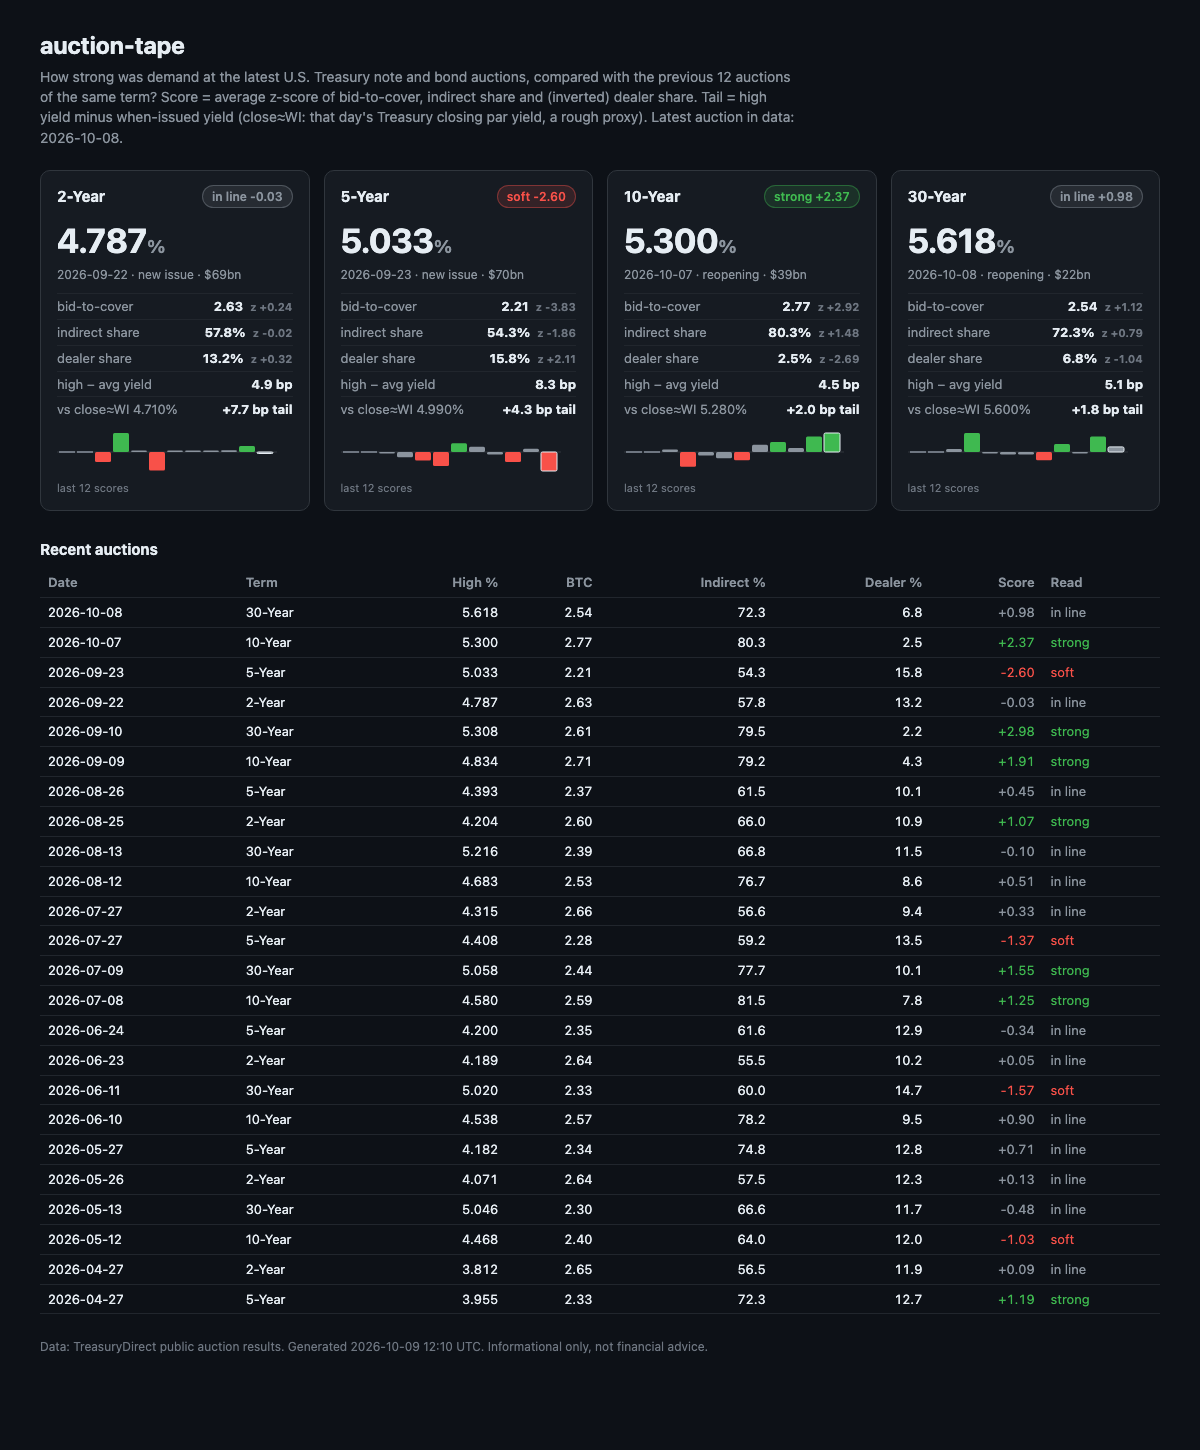
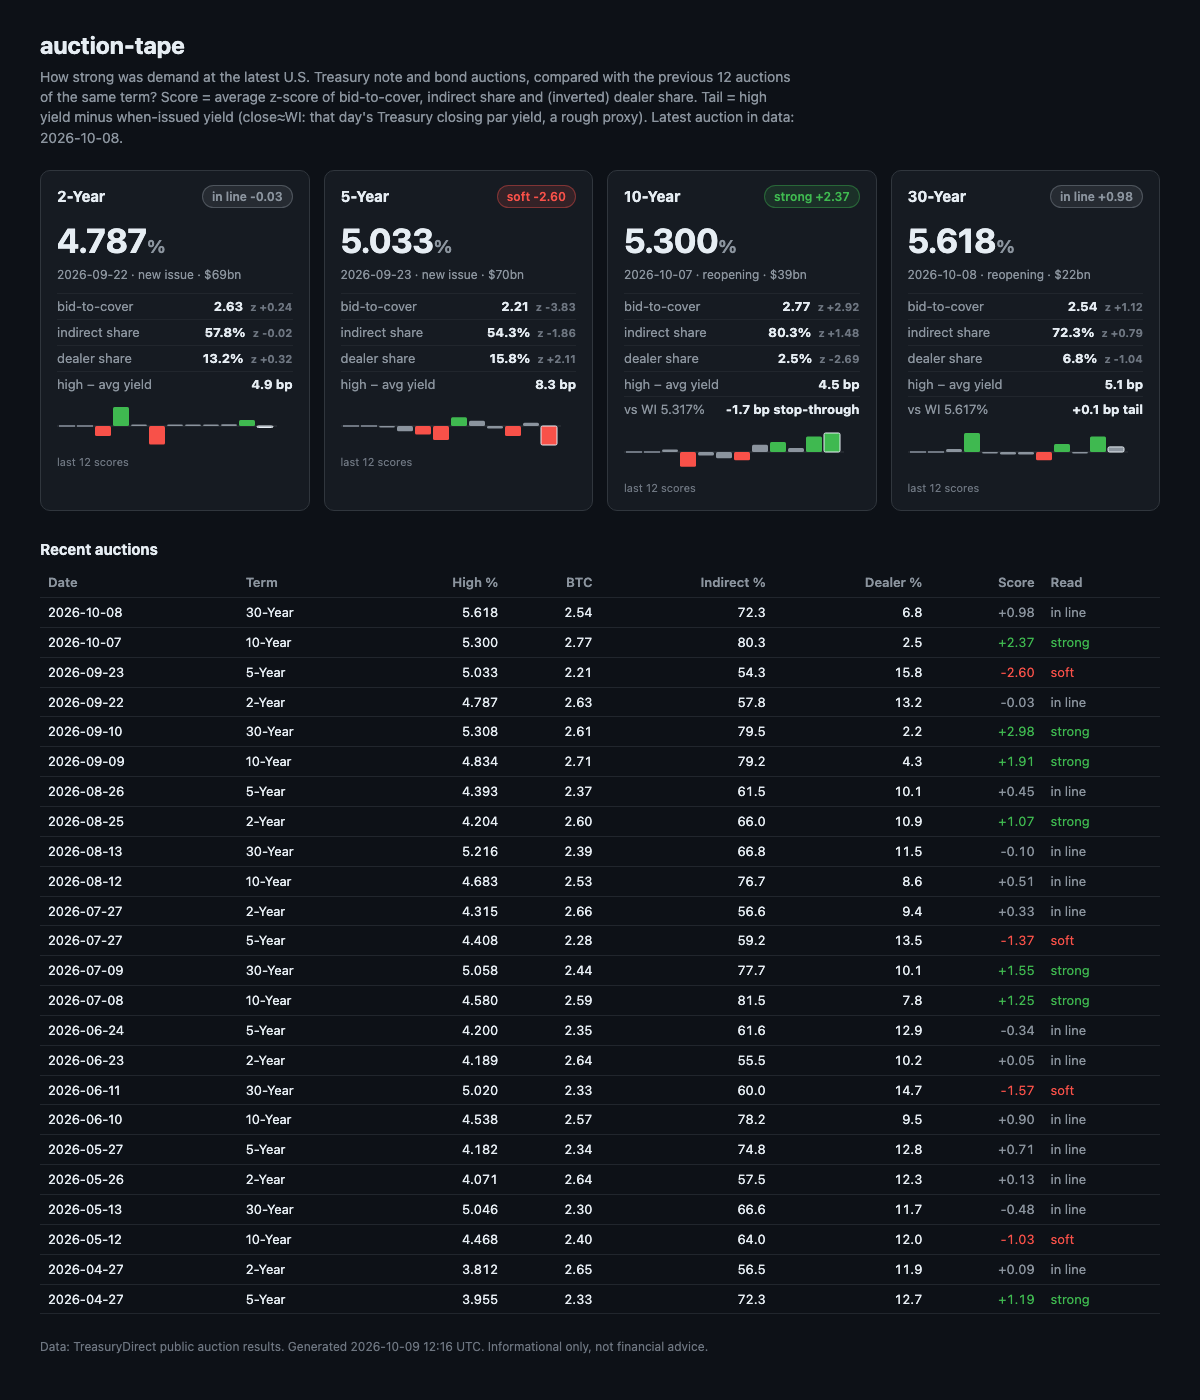
Use published WI yields in sample and screenshot; document close-proxy caveat

diff --git a/README.md b/README.md
@@ -22,7 +22,7 @@ shares of competitive awards. Then it computes:
 | Metric | Meaning |
 | --- | --- |
 | **Demand score** | Average of three z-scores against the previous `--window` (default 12) same-tenor auctions: bid-to-cover (higher = stronger), indirect share (higher = stronger; includes foreign official buyers) and dealer share (inverted, since dealers are the buyer of last resort). An auction is never part of its own baseline. ≥ +1 = **strong**, ≤ −1 = **soft**, otherwise **in line**. |
-| **Tail / stop-through** | High yield minus the when-issued (WI) yield, in bp. Positive = tail (weak), negative = stop-through (strong). Pass the WI yield with `--wi 10Y=4.512`, or use `--approx-wi` to approximate it with that day's Treasury closing par yield. The close comes a few hours after the 1pm ET auction, so treat it as a rough proxy. |
+| **Tail / stop-through** | High yield minus the when-issued (WI) yield, in bp. Positive = tail (weak), negative = stop-through (strong). Pass the WI yield with `--wi 10Y=4.512`, or use `--approx-wi` to approximate it with that day's Treasury closing par yield. The close comes a few hours after the 1pm ET auction, so treat it as a rough proxy (see the note below). |
 | **High − average yield** | How spread out the accepted bids were, in bp. |
 
 It's a transparent summary statistic, not a forecast and not financial advice.
@@ -53,16 +53,24 @@ Options: `--days` (history to fetch, default 420), `--window` (baseline size, de
 
 ## Sample output
 
-Live run on 2026-10-09 with `auction-tape --approx-wi` (tail measured against the day's close):
+Live run on 2026-10-09, with the published when-issued yields at the bid deadline for the latest 10Y and 30Y
+(`auction-tape --wi 10Y=5.317 --wi 30Y=5.617`):
 
 ```text
 term     auction      high%   btc  indir%  dealer%  score  read      tail bp
 ----------------------------------------------------------------------------
-2-Year   2026-09-22   4.787  2.63    57.8     13.2  -0.03  in line      +7.7
-5-Year   2026-09-23   5.033  2.21    54.3     15.8  -2.60  soft         +4.3
-10-Year  2026-10-07   5.300  2.77    80.3      2.5  +2.37  strong       +2.0
-30-Year  2026-10-08   5.618  2.54    72.3      6.8  +0.98  in line      +1.8
+2-Year   2026-09-22   4.787  2.63    57.8     13.2  -0.03  in line         –
+5-Year   2026-09-23   5.033  2.21    54.3     15.8  -2.60  soft            –
+10-Year  2026-10-07   5.300  2.77    80.3      2.5  +2.37  strong       -1.7
+30-Year  2026-10-08   5.618  2.54    72.3      6.8  +0.98  in line      +0.1
 ```
+
+The Oct 7 10Y reopening cleared at 5.300%, the highest 10Y auction yield since 2000, yet it posted the highest
+demand score of any 10Y scored in the data (since Jan 2026): bid-to-cover z +2.9, 80.3% indirect, 2.5% dealer, and a 1.7 bp stop-through.
+
+> **About `--approx-wi`:** the closing yield can be far from the WI yield at 1pm ET. On that same 10Y, the day's
+> close (5.28%) gives a +2.0 bp "tail", while the real result against WI was a 1.7 bp stop-through, because yields
+> rallied after the auction. Use `--wi` whenever you have the number.
 
 `--json` gives one object per tenor with every input and component, e.g. `z_bid_to_cover`, `z_indirect`,
 `z_dealer_inverted`, `demand_score`, `label`, `wi_yield`, `wi_source` (`given` or `close`) and `tail_bp`.
